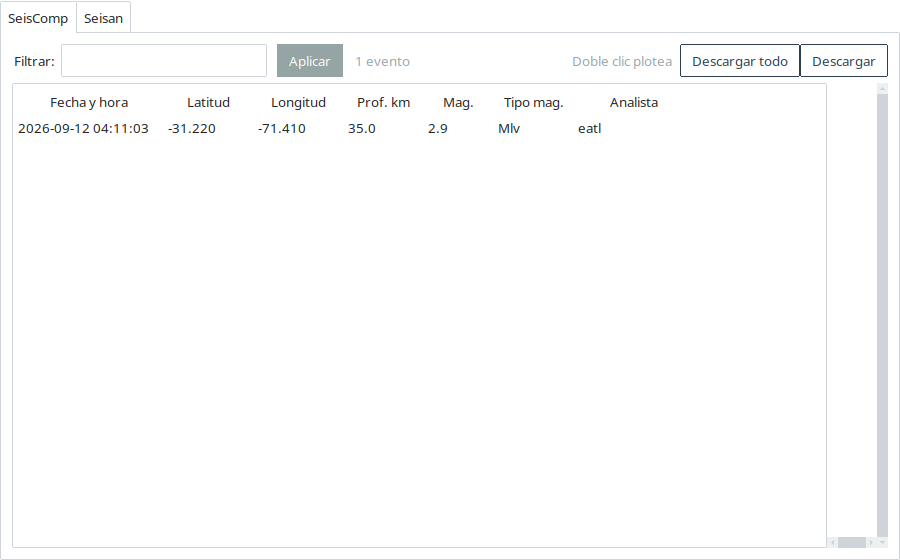
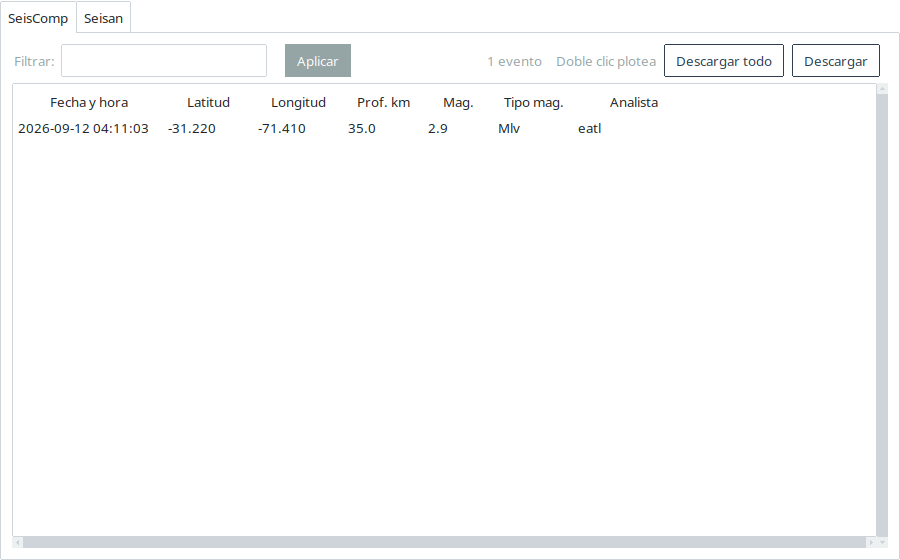
refactor(app): migra No publicados a revisa_seiscomp.abrir_tabla
_construir_tabla_no_publicados deja de armar el árbol, el filtro y la descarga
por su cuenta: pasa a usar abrir_tabla (y con él el filtro único). Misma
interfaz y comportamiento; desaparece la última copia local de orden/filtro en
app.py.

diff --git a/app.py b/app.py
@@ -3420,16 +3420,13 @@ class App:
         Complementa al panel/mapa: aquí se ve el conjunto completo en una tabla,
         sin tener que ir evento por evento en el ploteo.
 
-        Se ordena con clic en el encabezado y se filtra por texto. La descarga
-        arma el archivo con el filtro y el orden puestos; «Descargar todo» lo
-        escribe entero, que es lo que se reparte cuando el listado va completo.
+        Se apoya en revisa_seiscomp.abrir_tabla: ordena por encabezado, filtra
+        por texto con «Aplicar» y descarga con el filtro («Descargar») o entero
+        («Descargar todo»).
         """
         ruta = os.path.join(
             "datos", "no_pub_desde_2_5_%sestricto.csv"
             % ("" if fuente == "seisan" else "seiscomp_"))
-        marco = ttk.Frame(contenedor, padding=10)
-        marco.pack(fill=BOTH, expand=YES)
-
         filas = []
         if os.path.isfile(ruta):
             try:
@@ -3438,44 +3435,28 @@ class App:
             except OSError as e:
                 self._log("[error] no publicados %s: %s" % (fuente, e))
 
-        columnas = [("Fecha_Hora", "Fecha y hora", 150),
-                    ("Latitud", "Latitud", 90),
-                    ("Longitud", "Longitud", 90),
-                    ("Prof.", "Prof. km", 80),
-                    ("Mag.", "Mag.", 70),
-                    ("Tipo_mag.", "Tipo mag.", 80),
-                    ("Analista", "Analista", 120)]
-        claves = [c for c, _, _ in columnas]
-        # Profundidad, magnitud y coordenadas se ordenan como número: por texto
-        # un 9.0 quedaría después de un 10.0, que es justo lo que uno no quiere
-        # al revisar un listado por magnitud.
-        ordenables = {"Latitud", "Longitud", "Prof.", "Mag."}
-        estado = {"orden": None, "desc": False, "elegidas": list(filas)}
+        rs = self._importar_revisor()
+        if rs is None:
+            return
 
-        marco_controles = ttk.Frame(marco)
-        marco_controles.pack(fill=X, pady=(0, 6))
-        ttk.Label(marco_controles, text="Filtrar:").pack(side=LEFT)
-        caja_filtro = ttk.Entry(marco_controles, width=24)
-        caja_filtro.pack(side=LEFT, padx=(4, 10))
-        # El filtro se aplica con el botón «Aplicar» (o Enter), no en cada
-        # tecla: con listados grandes, re-filtrar al teclear era costoso.
-        ttk.Button(marco_controles, text="Aplicar", bootstyle="secondary",
-                   command=lambda: _llenar()).pack(side=LEFT, padx=(0, 10))
-        etiqueta_estado = ttk.Label(marco_controles, text="",
-                                    bootstyle="secondary")
-        etiqueta_estado.pack(side=LEFT)
+        # Profundidad, magnitud y coordenadas ordenan como número (es_num): por
+        # texto un 9.0 quedaría después de un 10.0.
+        columnas = [("Fecha_Hora", "Fecha y hora", 150, False),
+                    ("Latitud", "Latitud", 90, True),
+                    ("Longitud", "Longitud", 90, True),
+                    ("Prof.", "Prof. km", 80, True),
+                    ("Mag.", "Mag.", 70, True),
+                    ("Tipo_mag.", "Tipo mag.", 80, False),
+                    ("Analista", "Analista", 120, False)]
+        claves = [c for c, _, _, _ in columnas]
 
         def _valores(fila):
             return [str(fila.get(c, "") or "") for c in claves]
 
         def _ver_mapa(_evento=None):
             """Abre planta+perfil del evento elegido (ploteo de un evento suelto)."""
-            seleccion = arbol.selection()
-            if not seleccion:
-                return
-            try:
-                fila = estado["elegidas"][int(seleccion[0])]
-            except (ValueError, IndexError):
+            fila = tabla["fila_actual"]()
+            if fila is None:
                 return
 
             def _num(clave):
@@ -3485,7 +3466,8 @@ class App:
                     return None
 
             if _num("Latitud") is None or _num("Longitud") is None:
-                etiqueta_estado.config(text="El evento no tiene coordenadas.")
+                tabla["etiqueta_estado"].config(
+                    text="El evento no tiene coordenadas.")
                 return
             evento = {
                 "fecha hora": fila.get("Fecha_Hora", ""),
@@ -3499,118 +3481,22 @@ class App:
                 plotear.abrir_evento(evento, fuente)
             except Exception as e:
                 self._log("[error] no se pudo plotear: %s" % e)
-                etiqueta_estado.config(text="No se pudo plotear el evento.")
+                tabla["etiqueta_estado"].config(
+                    text="No se pudo plotear el evento.")
 
-        def _al_descargar(todas=False):
-            elegidas = filas if todas else estado["elegidas"]
-            if not elegidas:
-                return
-            # Se usa el mismo exportador de los listados del revisor, para no
-            # tener dos caminos que pregunten el formato y escriban por su
-            # cuenta (ver revisa_seiscomp._exportar_listado).
-            rs = self._importar_revisor()
-            if rs is None:
-                return
-            try:
-                ruta = rs._exportar_listado(elegidas, _valores, columnas,
-                                            self.cwd,
-                                            "no publicados %s" % fuente,
-                                            padre=contenedor)
-            except OSError as exc:
-                aviso = "No se pudo escribir el listado: %s" % exc
-                etiqueta_estado.config(text=aviso)
-                self._log(aviso)
-                return
-            if ruta is None:
-                return
-            aviso = "%d evento%s descargados a %s" % (
-                len(elegidas), "" if len(elegidas) == 1 else "s",
-                os.path.basename(ruta))
-            etiqueta_estado.config(text=aviso)
-            self._log(aviso)
+        marco = ttk.Frame(contenedor, padding=10)
+        marco.pack(fill=BOTH, expand=YES)
+        tabla = rs.abrir_tabla(
+            marco, filas, columnas, _valores, cwd=self.cwd, log=self._log,
+            filtros=("texto",), iid_por_id=False,
+            etiqueta="no publicados %s" % fuente,
+            descarga_texto="Descargar",
+            descarga_bootstyle="primary-outline", descarga_todo=True,
+            texto_filtro="Filtrar:", texto_detalle="Doble clic plotea")
 
-        boton_descargar = ttk.Button(marco_controles, text="Descargar",
-                                     command=_al_descargar, state="disabled",
-                                     bootstyle="primary-outline")
-        boton_descargar.pack(side=RIGHT)
-        ttk.Button(marco_controles, text="Descargar todo",
-                   command=lambda: _al_descargar(todas=True),
-                   bootstyle="primary-outline").pack(side=RIGHT, padx=(6, 0))
-        # Aviso corto: el detalle se abre con doble clic, no hay botón.
-        ttk.Label(marco_controles, text="Doble clic plotea",
-                  bootstyle="secondary").pack(side=RIGHT, padx=(10, 0))
-
-        marco_tabla = ttk.Frame(marco)
-        marco_tabla.pack(fill=BOTH, expand=YES)
-        arbol = ttk.Treeview(marco_tabla, columns=claves, show="headings",
-                             selectmode="browse")
-        for clave, tit, ancho in columnas:
-            arbol.heading(clave, text=tit,
-                          command=lambda c=clave: _al_ordenar(c))
-            arbol.column(clave, width=ancho, minwidth=50, stretch=False)
-        barra_v = ttk.Scrollbar(marco_tabla, orient="vertical",
-                                command=arbol.yview)
-        arbol.configure(yscrollcommand=barra_v.set)
-        barra_h = ttk.Scrollbar(marco_tabla, orient="horizontal",
-                                command=arbol.xview)
-        arbol.configure(xscrollcommand=barra_h.set)
-        arbol.pack(side="left", fill="both", expand=True)
-        barra_v.pack(side="right", fill="y")
-        barra_h.pack(side="bottom", fill="x")
-
-        # Doble clic (o Enter con la fila elegida) abre planta+perfil del evento.
+        arbol = tabla["arbol"]
         arbol.bind("<Double-1>", _ver_mapa)
         arbol.bind("<Return>", _ver_mapa)
-
-        def _clave_orden(fila, columna):
-            if columna in ordenables:
-                try:
-                    return (0, float(str(fila.get(columna, "")).strip()), "")
-                except (TypeError, ValueError):
-                    pass
-            return (1, 0.0, str(fila.get(columna, "")).strip().lower())
-
-        def _ordenar(evs, columna, desc=False):
-            if columna is None:
-                return list(evs)
-            con = [f for f in evs if str(f.get(columna, "")).strip() != ""]
-            sin = [f for f in evs if str(f.get(columna, "")).strip() == ""]
-            con.sort(key=lambda f: _clave_orden(f, columna), reverse=desc)
-            return con + sin
-
-        def _al_ordenar(columna):
-            if estado["orden"] == columna:
-                estado["desc"] = not estado["desc"]
-            else:
-                estado["orden"] = columna
-                estado["desc"] = False
-            _llenar()
-
-        def _llenar(_evento=None):
-            texto = caja_filtro.get().strip().lower()
-            if texto:
-                elegidas = [f for f in filas
-                            if texto in " ".join(
-                                str(v).lower() for v in f.values())]
-            else:
-                elegidas = list(filas)
-            elegidas = _ordenar(elegidas, estado["orden"], estado["desc"])
-            estado["elegidas"] = elegidas
-            for item in arbol.get_children():
-                arbol.delete(item)
-            for i, fila in enumerate(elegidas):
-                arbol.insert("", "end", iid=str(i), values=_valores(fila))
-            etiqueta_estado.config(
-                text="%d de %d eventos" % (len(elegidas), len(filas))
-                if len(elegidas) != len(filas)
-                else "%d evento%s" % (len(filas),
-                                      "" if len(filas) == 1 else "s"))
-            boton_descargar.configure(
-                state="normal" if elegidas else "disabled")
-
-        # El filtro se aplica con el botón «Aplicar» (o Enter), no en cada tecla.
-        caja_filtro.bind("<Return>", _llenar)
-        _llenar()
         self._log("No publicados de %s: %d eventos." % (fuente, len(filas)))
 
     # ----------------------------------------------------------- SeisComp
